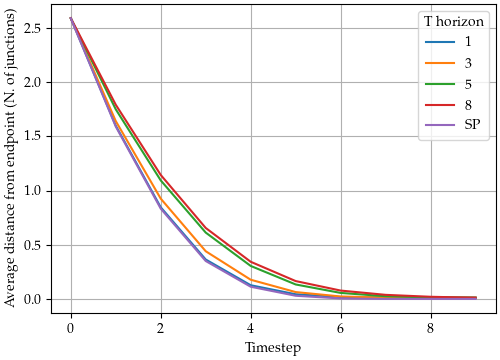
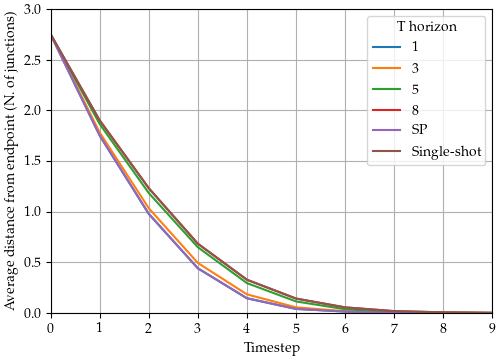
small fixes

diff --git a/plot_multiperiod.py b/plot_multiperiod.py
@@ -20,13 +20,16 @@ import pickle
 import torch
 from Utilities.plot_agent_route import plot_agent_route
 
-f = open('/Users/ebenenati/surfdrive/TUDelft/Simulations/MDP_traffic_nonlinear/28_Sep_22/saved_test_result_multiperiod.pkl', 'rb')
+f = open('/Users/ebenenati/surfdrive/TUDelft/Simulations/MDP_traffic_nonlinear/13_oct_22/saved_test_result_multiperiod.pkl', 'rb')
 # f = open('saved_test_result_multiperiod.pkl', 'rb')
 ## Data structure:
 ## visited_nodes: dictionary with keys (index test, T_horiz) whose elements are tensors with dimension (N_agents, N_vehicles, T_horiz+1)
-x_store, visited_nodes, road_graph, edge_time_to_index, node_time_to_index, T_horiz_tested, T_simulation, \
+x_store, x_oneshot_store, visited_nodes, road_graph, edge_time_to_index_oneshot, node_time_to_index_oneshot, T_horiz_tested, T_simulation, \
 initial_junctions_stored, final_destinations_stored, congestion_baseline_stored, cost_baseline, N_tests =  pickle.load(f)
 f.close()
+
+# f = open('realization_oneshot.pkl', 'wb')
+# visited_nodes_oneshot, count_edge_taken_at_time_oneshot = pickle.load(f)
 
 N_agents = visited_nodes[(0, T_horiz_tested[0])].size(0)
 N_edges = road_graph.number_of_edges()
@@ -34,6 +37,39 @@ N_vertices = road_graph.number_of_nodes()
 N_vehicles = visited_nodes[(0, T_horiz_tested[0])].size(1)
 
 torch.Tensor.ndim = property(lambda self: len(self.shape))  # Necessary to use matplotlib with tensors
+
+# Preliminaries: generate realization of probabilistic controller (one-shor solution, used for baseline)
+visited_nodes_oneshot = torch.zeros((N_tests, N_agents, N_vehicles, T_simulation+1))
+count_edge_taken_at_time_oneshot = {} # count how many vehicles pass by the edge at time t
+for test in range(N_tests):
+    for edge in road_graph.edges:
+        for t in range(T_simulation):
+            count_edge_taken_at_time_oneshot.update({(test, edge, t): 0})
+for test in range(N_tests):
+    for i_agent in range(N_agents):
+        visited_nodes_oneshot[test, i_agent, :, 0] = initial_junctions_stored[test][i_agent] * torch.ones((N_vehicles, 1)).flatten()
+    for t in range(T_simulation):
+        for i_agent in range(N_agents):
+            for vehicle in range(N_vehicles):
+                starting_node = visited_nodes_oneshot[test, i_agent, vehicle, t].int().item()
+                if t==0:
+                    prob_starting_node=1 #probability of initial condition
+                else:
+                    prob_starting_node = max(x_oneshot_store[test, i_agent, node_time_to_index_oneshot[(starting_node, t)]], 0)
+                if prob_starting_node < 0.00001:
+                    print("Warning: a vehicle ended up in a very unlikely node")
+                conditioned_prob = np.zeros(road_graph.number_of_nodes())
+                for end_node in range(road_graph.number_of_nodes()):
+                    if (starting_node, end_node) in road_graph.edges:
+                        conditioned_prob[end_node] =  max(x_oneshot_store[test, i_agent, edge_time_to_index_oneshot[(( starting_node, end_node), t)] ], 0) / prob_starting_node
+                    else:
+                        conditioned_prob[end_node] = 0
+                if sum(conditioned_prob) -1 >=0.0001:
+                    print("Warning: conditioned prob. does not sum to 1, but to " + str(sum(conditioned_prob)))
+                conditioned_prob = conditioned_prob/sum(conditioned_prob) #necessary just for numerical tolerancies
+                next_visited_node = np.random.choice(range(road_graph.number_of_nodes()), p=conditioned_prob)
+                visited_nodes_oneshot[test, i_agent, vehicle, t + 1] = next_visited_node
+                count_edge_taken_at_time_oneshot.update( {( test, (starting_node, next_visited_node), t): count_edge_taken_at_time_oneshot[(test, (starting_node, next_visited_node), t)] +1 } )
 
 # Check how many vehicles reached final dest.
 total_vehicles_and_tests = len(T_horiz_tested) * N_tests * N_agents * N_vehicles
@@ -76,9 +112,7 @@ for test in range(N_tests):
 time_destination_dataframe = pd.DataFrame(list(zip(list_tests, list_T_horiz, list_agents, list_vehicles, list_value)), columns=['test', 'T horiz', 'agent','vehicle', 'value'])
 ax = sns.boxplot(x = "T horiz", y="value", data=time_destination_dataframe, palette="muted", medianprops={'color': 'lime', 'lw': 2})
 ax.grid(True)
-ax.set_ylim([0, 3])
 plt.show(block=False)
-print("Done")
 
 # Plot distance from  destination over time
 fig, ax = plt.subplots(figsize=(5 * 1, 3.6 * 1), layout='constrained')
@@ -93,7 +127,8 @@ for test in range(N_tests):
         for i in range(N_agents):
             cost_SP[test, i, a]=nx.shortest_path_length(road_graph, source=a, target = final_destinations_stored[test][i])
 
-N_datapoints = N_tests * len(T_horiz_tested) * T_simulation * N_agents * N_vehicles + T_simulation * N_tests * N_agents
+N_datapoints = N_tests * len(T_horiz_tested) * T_simulation * N_agents * N_vehicles + T_simulation * N_tests * N_agents \
+               + T_simulation * N_tests * N_agents * N_vehicles
 list_tests = [None] *N_datapoints
 list_T_horiz = [None] *N_datapoints
 list_timestep = [None] *N_datapoints
@@ -102,15 +137,10 @@ list_vehicles = [None] *N_datapoints
 list_value = [None] *N_datapoints
 index_datapoint =0
 for T_horiz in T_horiz_tested:
-    distance_over_time =np.zeros(T_simulation)
     for t in range(T_simulation):
         for test in range(N_tests):
             for i in range(N_agents):
                 for vehicle in range(N_vehicles):
-                    if t < len(SP[(test, i)]):
-                        distance_baseline = cost_SP[test, i, SP[(test, i)][t]].item()
-                    else:
-                        distance_baseline = 0
                     current_node = visited_nodes[(test, T_horiz)][i, vehicle, t]
                     distance_from_dest = cost_SP[test, i, int(current_node.item())]
                     list_tests[index_datapoint] = test
@@ -120,7 +150,7 @@ for T_horiz in T_horiz_tested:
                     list_vehicles[index_datapoint] = vehicle
                     list_value[index_datapoint] = distance_from_dest.item()
                     index_datapoint = index_datapoint +1
-
+# Baseline 1: Shortest path
 for t in range(T_simulation):
     for test in range(N_tests):
         for i in range(N_agents):
@@ -135,9 +165,26 @@ for t in range(T_simulation):
             list_vehicles[index_datapoint] = 0
             list_value[index_datapoint] = distance_baseline
             index_datapoint = index_datapoint + 1
+# Baseline 2: one-shot
+for t in range(T_simulation):
+    for test in range(N_tests):
+        for i in range(N_agents):
+            for vehicle in range(N_vehicles):
+                current_node = visited_nodes_oneshot[test, i, vehicle, t]
+                distance_oneshot = cost_SP[test, i, int(current_node.item())]
+                list_tests[index_datapoint] = test
+                list_timestep[index_datapoint] = t
+                list_T_horiz[index_datapoint] = "Single-shot"
+                list_agents[index_datapoint] = i
+                list_vehicles[index_datapoint] = 0
+                list_value[index_datapoint] = distance_oneshot.item()
+                index_datapoint = index_datapoint + 1
 distance_from_dest_dataframe = pd.DataFrame(list(zip(list_tests, list_timestep, list_T_horiz, list_agents, list_vehicles, list_value)), columns=['test', 't', 'T horizon', 'agent','vehicle', 'Distance from endpoint'])
 
-sns.lineplot(data = distance_from_dest_dataframe, ci=None, x='t', y='Distance from endpoint', hue='T horizon')
+sns.lineplot(data = distance_from_dest_dataframe, ci=None , x='t', y='Distance from endpoint', hue='T horizon')
+ax.set_ylim([0, 3])
+ax.set_xlim([0, T_simulation - 1])
+
 ax.grid(True)
 ax.set_ylabel('Average distance from endpoint (N. of junctions)')
 ax.set_xlabel('Timestep')
@@ -163,9 +210,9 @@ for T_horiz in T_horiz_tested:
                 n_vehicles_on_edge_at_t = np.count_nonzero( torch.logical_and( (visited_nodes[(test, T_horiz)][:, :, t] == edge[0]), (visited_nodes[(test, T_horiz)][:, :, t+1] == edge[1]) ) )
                 count_edge_taken_at_time.update({(T_horiz, test, edge, t): n_vehicles_on_edge_at_t})
 
-N_datapoints = N_tests * len(T_horiz_tested)
+N_datapoints = N_tests * len(T_horiz_tested) + N_tests
 list_tests = np.zeros(N_datapoints)
-list_T_horiz = np.zeros(N_datapoints)
+list_T_horiz = [None] *N_datapoints
 list_value = np.zeros(N_datapoints)
 index_datapoint =0
 for T_horiz in T_horiz_tested:
@@ -192,15 +239,45 @@ for T_horiz in T_horiz_tested:
         list_T_horiz[index_datapoint] = int(T_horiz)
         list_value[index_datapoint] = (social_cost_baseline - social_cost) / social_cost_baseline
         index_datapoint = index_datapoint +1
+# Compute one shot social cost
+for test in range(N_tests):
+    social_cost_oneshot = 0
+    social_cost_baseline = 0
+    for edge in road_graph.edges:
+        for t in range(T_simulation):
+            sigma_oneshot = (count_edge_taken_at_time_oneshot[(test, edge, t)] / N_vehicles) / N_agents
+            cost_edge_oneshot = road_graph[edge[0]][edge[1]]['travel_time'] * (
+                    1 + 0.15 * ((sigma_oneshot + (uncontrolled_traffic_edge / N_agents)) / (
+            road_graph[edge[0]][edge[1]]['capacity'])))
+            if (edge, t) in congestion_baseline_stored[test].keys():
+                sigma_baseline = congestion_baseline_stored[test][(edge, t)]
+            else:
+                sigma_baseline = 0
+            cost_edge_baseline = road_graph[edge[0]][edge[1]]['travel_time'] * (
+                    1 + 0.15 * ((sigma_baseline + (uncontrolled_traffic_edge / N_agents)) / (
+            road_graph[edge[0]][edge[1]]['capacity'])))
+            cost_partial_oneshot = sigma_oneshot * cost_edge_oneshot
+            cost_partial_baseline = sigma_baseline * cost_edge_baseline
+            social_cost_oneshot = social_cost_oneshot + cost_partial_oneshot
+            social_cost_baseline = social_cost_baseline + cost_partial_baseline
+    list_tests[index_datapoint] = test
+    list_T_horiz[index_datapoint] = "Single-shot"
+    list_value[index_datapoint] = (social_cost_baseline - social_cost_oneshot) / social_cost_baseline
+    index_datapoint = index_datapoint + 1
 social_cost_dataframe = pd.DataFrame(list(zip(list_tests,list_T_horiz, list_value)), columns=['test', 'T horiz', 'value'])
 ax = sns.boxplot(x ="T horiz" ,y="value", data=social_cost_dataframe, palette="muted", medianprops={'color': 'lime', 'lw': 2})
 ax.set_ylabel(r'$\frac{\sum_i J_i(x_b) - J_i(x^{\star})}{\sum_i J_i(x_b)}$ ')
 ax.set_xlabel(r'Horizon')
-
 ax.grid(True)
-
 plt.savefig('2_multiperiod_advantage.png')
 plt.savefig('2_multiperiod_advantage.pdf')
-
 plt.show(block=False)
+
+
+# Save dataframes
+
+f = open('saved_multiperiod_dataframes.pkl', 'wb')
+pickle.dump([distance_from_dest_dataframe, social_cost_dataframe], f)
+f.close()
+
 print("Done")

diff --git a/main_multiperiod.py b/main_multiperiod.py
@@ -34,13 +34,13 @@ if __name__ == '__main__':
     logging.basicConfig(filename='log.txt', filemode='w',level=logging.DEBUG)
     use_test_graph = True
     N_random_tests = 3
-    N_vehicles_per_agent = 100
+    N_vehicles_per_agent = 1000
     print("Initializing road graph...")
     N_agents=8   # N agents
     f = open('test_graph.pkl', 'rb')
     Road_graph = pickle.load(f)
     f.close()
-    T_horiz_to_test= [1, 3, 5]
+    T_horiz_to_test= [8]
     T_simulation=8
 
     n_juncs = len(Road_graph.nodes)
@@ -119,14 +119,14 @@ if __name__ == '__main__':
                     alg.run_once()
                     end_time = time.time()
                     avg_time_per_it = (avg_time_per_it * k + (end_time - start_time)) / (k + 1)
-                    if k % 10 == 0:
+                    if k % 100 == 0:
                         x, d, r, c = alg.get_state()
                         print("Iteration " + str(k) + " Residual: " + str(r.item()) + " Average time: " + str(
                             avg_time_per_it))
                         logging.info("Iteration " + str(k) + " Residual: " + str(r.item()) + " Average time: " + str(
                             avg_time_per_it))
                         index_store = index_store + 1
-                        if r <= 10 ** (-1):
+                        if r <= 10 ** (-4):
                             break
                 # store results
                 x, d, r, c = alg.get_state()
@@ -150,15 +150,41 @@ if __name__ == '__main__':
                     for node in range(Road_graph.number_of_nodes()):
                         initial_state[node, i_agent] = np.count_nonzero(visited_nodes[(test,T_horiz)][i_agent,:,t+1] == node) / N_vehicles_per_agent
                 x_store[(test,T_horiz)][:, :, t] = x.flatten(1)
+                # Compute baselines
                 if t==0 and T_horiz==T_horiz_to_test[0]:
+                    # First baseline: shortest path
                     congestion_baseline_instance, cost_baseline_instance = game.compute_baseline(initial_junctions, final_destinations) # Compute cost of naive shortest path
                     congestion_baseline.update({test : congestion_baseline_instance})
                     cost_baseline.update({test : cost_baseline_instance.flatten(0)})
+                    # Second baseline: non-receding horizon solution (one shot solution)
+                    print("Computing one-shot solution for baseline...")
+                    logging.info("Computing one-shot solution for baseline...")
+                    initial_state_oneshot = torch.zeros(Road_graph.number_of_nodes(), N_agents)
+                    for i in range(N_agents):
+                        initial_state_oneshot[initial_junctions[i], i] = 1
+                    game = Game(T_simulation, N_agents, Road_graph, initial_state_oneshot, final_destinations,
+                                add_terminal_cost=False, add_destination_constraint=True, epsilon_probability=0.01,
+                                xi=1)
+                    [alpha, beta, theta] = set_stepsizes(N_agents, Road_graph, game.A_ineq_shared, algorithm='FRB')
+                    alg = FRB_algorithm(game, beta=beta, alpha=alpha, theta=theta)
+                    for k in range(N_iter*10):
+                        alg.run_once()
+                        if k % 100 == 0:
+                            x, d, r, c = alg.get_state()
+                            if r <= 10 ** (-4):
+                                break
+                            print("Iteration (one-shot solution): " + str(k) + " Residual: " + str(r.item()))
+                            logging.info("Iteration (one-shot solution): " + str(k) + " Residual: " + str(r.item()))
+                    if test == 0:
+                        x_oneshot_store = torch.zeros(N_random_tests, N_agents, game.n_opt_variables)
+                    x_oneshot_store[test, :, :] = x.flatten(1)
+                    edge_time_to_index_oneshot = game.edge_time_to_index
+                    node_time_to_index_oneshot = game.node_time_to_index
 
     print("Saving results...")
     logging.info("Saving results...")
     f = open('saved_test_result_multiperiod.pkl', 'wb')
-    pickle.dump([ x_store, visited_nodes, Road_graph, game.edge_time_to_index, game.node_time_to_index, T_horiz_to_test, T_simulation, \
+    pickle.dump([ x_store, x_oneshot_store, visited_nodes, Road_graph, edge_time_to_index_oneshot, node_time_to_index_oneshot, T_horiz_to_test, T_simulation, \
                  initial_junctions_stored, final_destinations_stored, congestion_baseline, cost_baseline, N_random_tests], f)
     f.close()
     print("Saved")

diff --git a/plot.py b/plot.py
@@ -125,7 +125,7 @@ plt.show()
 ### Plot #2 : congestion in tests vs. shortest path
 
 # Preliminaries: generate realization of probabilistic controller
-N_vehicles_per_agent = 10**2
+N_vehicles_per_agent = 10**3
 
 visited_nodes = torch.zeros((N_tests, N_agents, N_vehicles_per_agent, T_horiz+1))
 count_edge_taken_at_time = {} # count how many vehicles pass by the edge at time t
